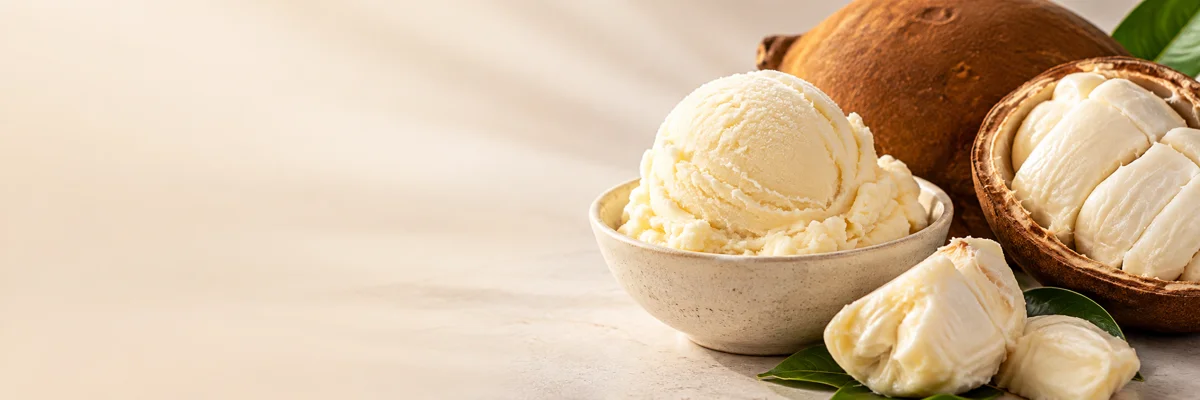
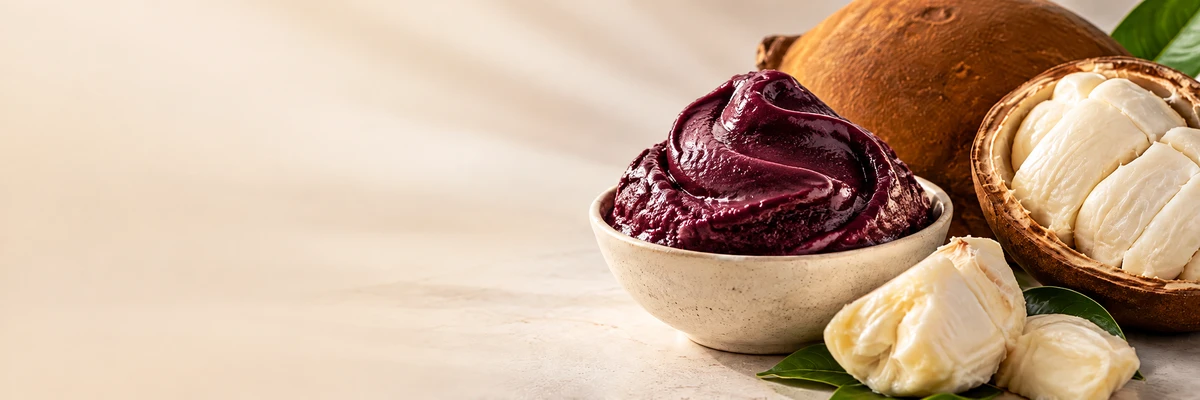
Add files via upload

diff --git a/public/assets/pedevia-version.js b/public/assets/pedevia-version.js
@@ -1,7 +1,7 @@
 // Fonte única de versão do Pedevia. Este arquivo deve ser carregado antes dos módulos.
 (function(){
   'use strict';
-  const CURRENT='1.35.12';
+  const CURRENT='1.35.13';
   const parts=v=>String(v||'0').split('.').map(n=>Number(n)||0);
   const compare=(a,b)=>{const x=parts(a),y=parts(b);for(let i=0;i<Math.max(x.length,y.length);i++){if((x[i]||0)!==(y[i]||0))return(x[i]||0)-(y[i]||0)}return 0};
   let active=CURRENT;
